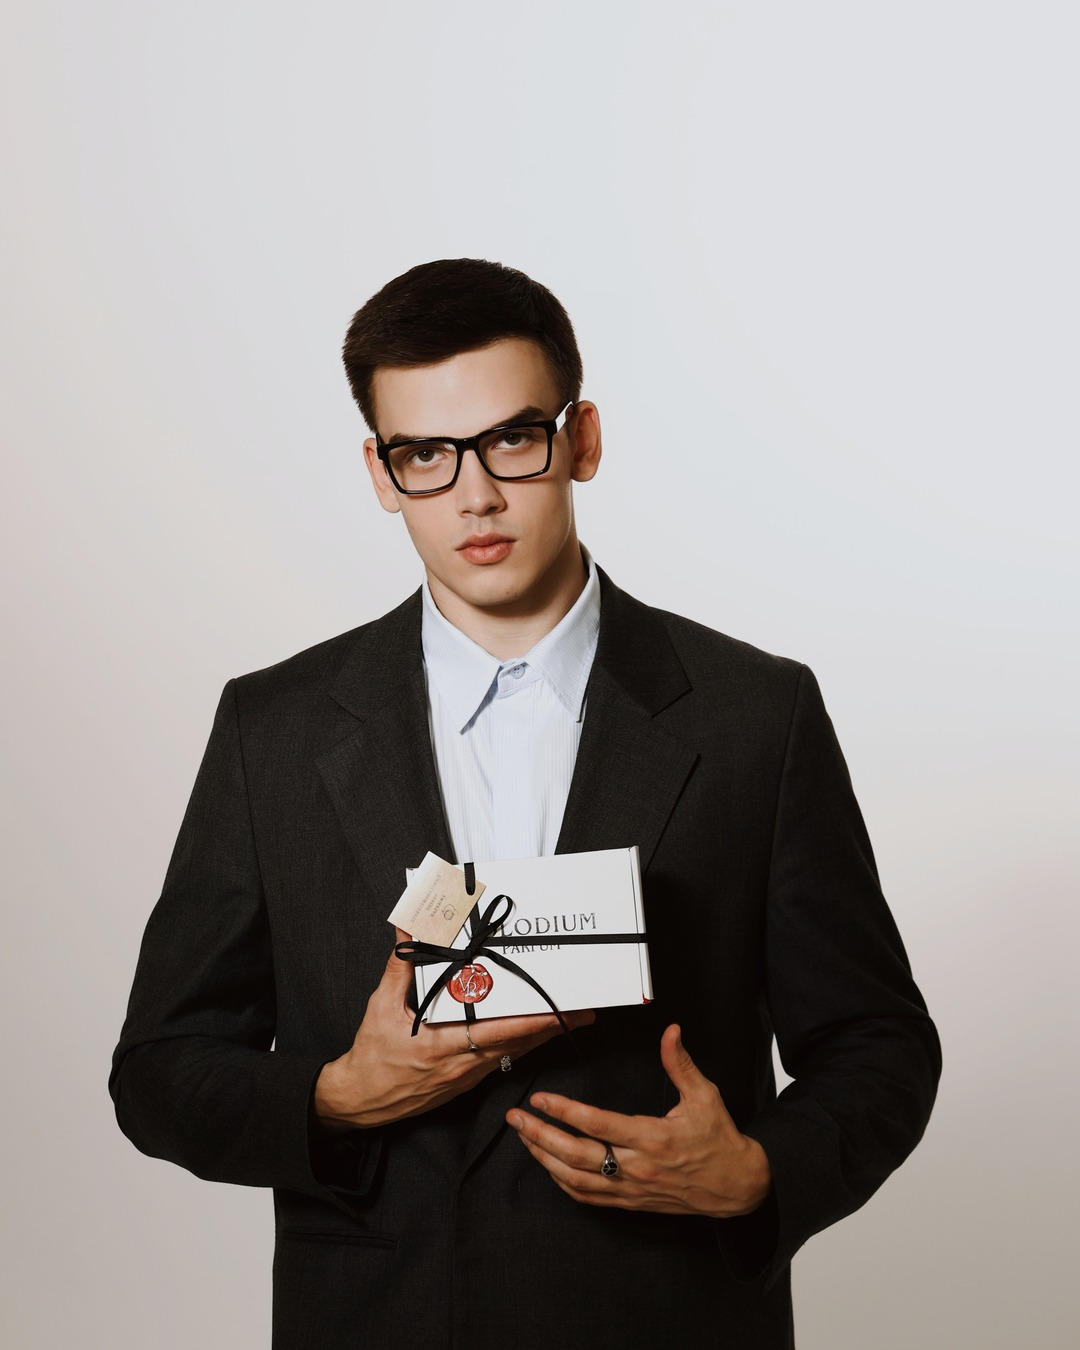
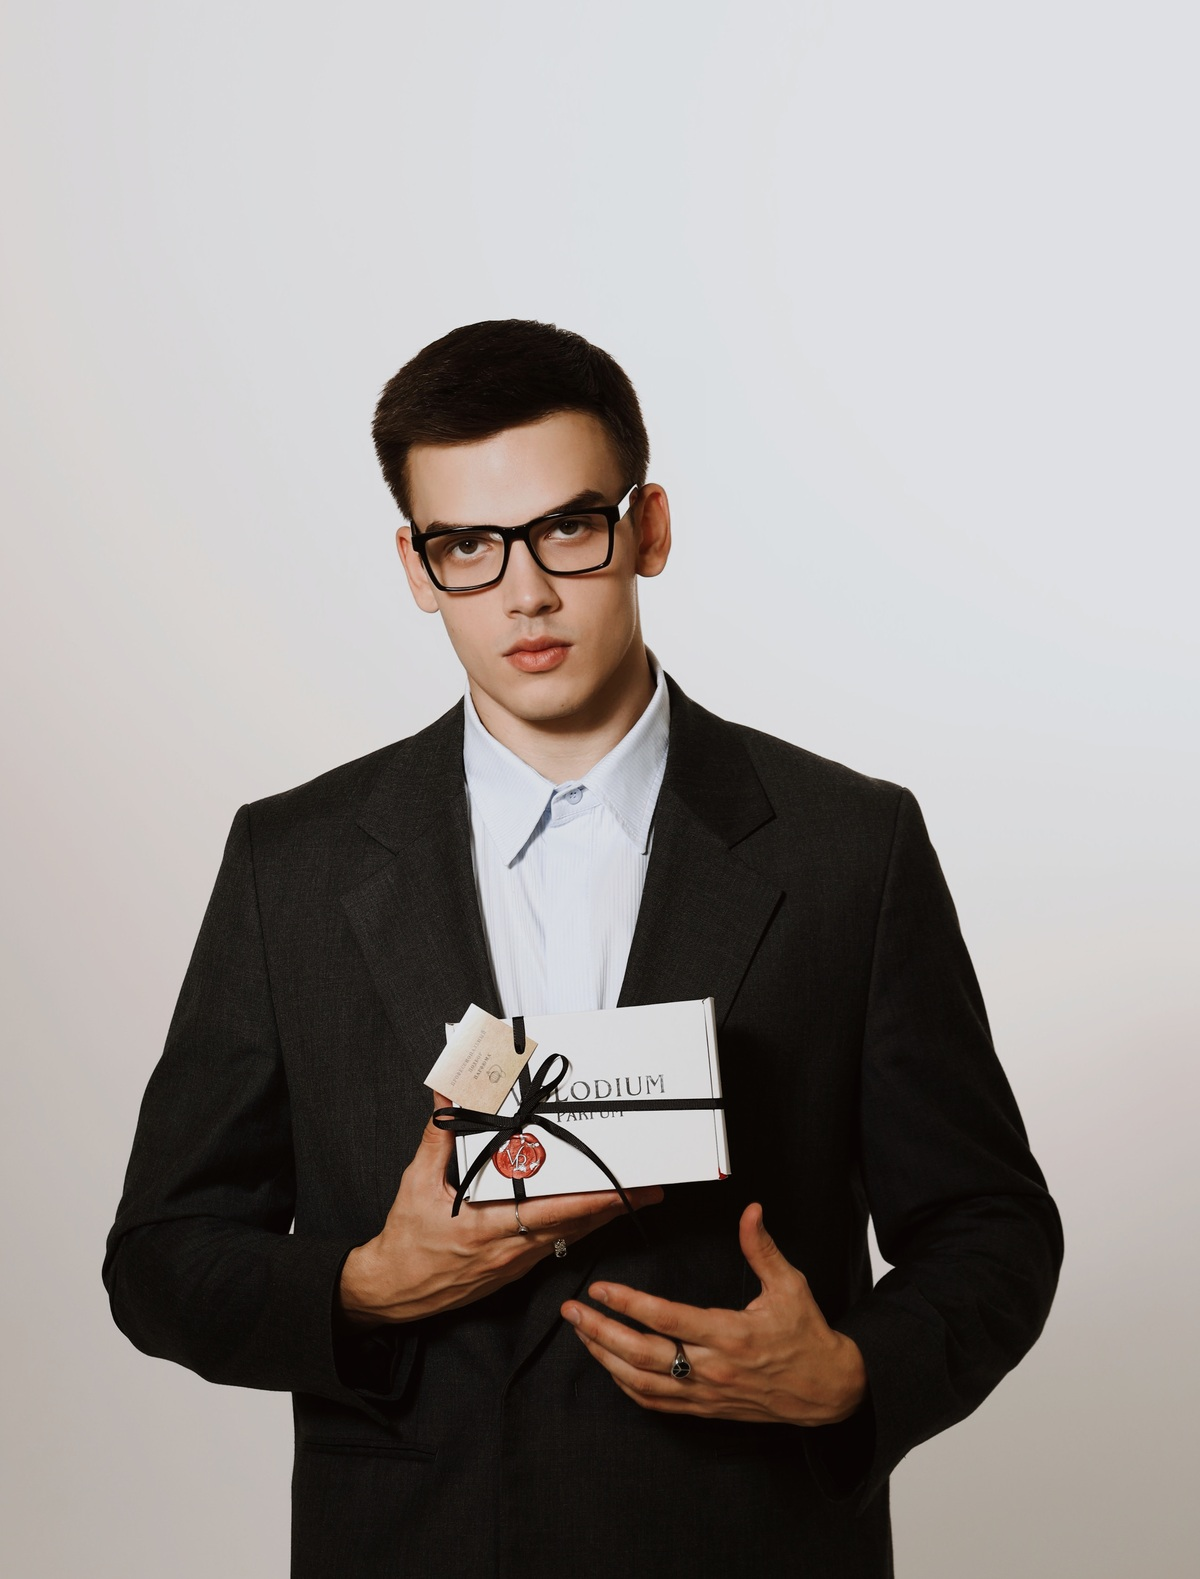
ап

diff --git a/index.html b/index.html
@@ -47,7 +47,7 @@
 
   <script>try{var p=new URLSearchParams(window.location.search);if(!p.has('intro')&&!p.has('replay')&&(sessionStorage.getItem('vp_intro_seen')==='1'||(window.location.hash&&window.location.hash!=='#intro'))){document.documentElement.classList.remove('intro-active');}}catch(e){}</script>
   <!-- Main Stylesheet -->
-  <link rel="stylesheet" href="assets/css/style.css?v=20261122_clean_editorial_v1">
+  <link rel="stylesheet" href="assets/css/style.css?v=20261122_clean_editorial_v2">
 </head>
 <body class="intro-active">
 
@@ -482,12 +482,7 @@
           <!-- Mobile Portrait Card (Visible only on mobile/tablet where full-bleed desktop background scales down) -->
           <div class="lcc-mobile-portrait-stage">
             <div class="lcc-mobile-frame">
-              <img src="assets/images/custom_scent_vladimir_mobile.jpg" alt="Владимир Вацик с фирменным боксом Volodium" class="lcc-mobile-img" loading="lazy" width="1080" height="1350">
-              <div class="lcc-founder-pill-subtle">
-                <span class="lfps-name">Владимир Вацик</span>
-                <span class="lfps-dot">•</span>
-                <span class="lfps-role">Основатель Volodium</span>
-              </div>
+              <img src="assets/images/custom_scent_vladimir_mobile.jpg" alt="Владимир Вацик с фирменным боксом Volodium" class="lcc-mobile-img" loading="lazy" width="1200" height="1579">
             </div>
           </div>
         </div>
@@ -497,7 +492,7 @@
           <!-- 1. Оригинальность -->
           <div class="hgb-item">
             <div class="hgb-icon-cell" aria-hidden="true">
-              <svg width="22" height="22" viewBox="0 0 24 24" fill="none" stroke="currentColor" stroke-width="1.8" stroke-linecap="round" stroke-linejoin="round">
+              <svg width="20" height="20" viewBox="0 0 24 24" fill="none" stroke="currentColor" stroke-width="1.8" stroke-linecap="round" stroke-linejoin="round">
                 <path d="M12 22s8-4 8-10V5l-8-3-8 3v7c0 6 8 10 8 10z"/>
                 <polyline points="9 12 11 14 15 10"/>
               </svg>
@@ -513,7 +508,7 @@
           <!-- 2. Сроки сборки -->
           <div class="hgb-item">
             <div class="hgb-icon-cell" aria-hidden="true">
-              <svg width="22" height="22" viewBox="0 0 24 24" fill="none" stroke="currentColor" stroke-width="1.8" stroke-linecap="round" stroke-linejoin="round">
+              <svg width="20" height="20" viewBox="0 0 24 24" fill="none" stroke="currentColor" stroke-width="1.8" stroke-linecap="round" stroke-linejoin="round">
                 <rect x="2" y="7" width="20" height="14" rx="2" ry="2"/>
                 <path d="M16 21V5a2 2 0 0 0-2-2h-4a2 2 0 0 0-2 2v16"/>
               </svg>
@@ -529,7 +524,7 @@
           <!-- 3. Личный подход -->
           <div class="hgb-item">
             <div class="hgb-icon-cell" aria-hidden="true">
-              <svg width="22" height="22" viewBox="0 0 24 24" fill="none" stroke="currentColor" stroke-width="1.8" stroke-linecap="round" stroke-linejoin="round">
+              <svg width="20" height="20" viewBox="0 0 24 24" fill="none" stroke="currentColor" stroke-width="1.8" stroke-linecap="round" stroke-linejoin="round">
                 <path d="M20 21v-2a4 4 0 0 0-4-4H8a4 4 0 0 0-4 4v2"/>
                 <circle cx="12" cy="7" r="4"/>
               </svg>
@@ -539,66 +534,6 @@
               <span class="hgb-desc">Подбор с помощью эксперта</span>
             </div>
           </div>
-        </div>
-      </div>
-    </div>
-  </section>
-
-  <!-- About Section: Vladimir Vatsik Boutique Editorial (Mockup Match) -->
-  <section class="about-editorial-section" id="about" aria-label="О бренде Volodium">
-    <div class="container about-editorial-container">
-      <div class="about-editorial-grid">
-        <!-- Left Column: Vladimir in Orto Parisi Boutique with Blotters -->
-        <div class="about-media-col">
-          <div class="about-media-frame">
-            <img src="assets/img/editorial/vladimir_orto_parisi.jpg" alt="Владимир Вацик — парфюмерный эксперт Volodium" class="about-media-img" loading="lazy" width="1941" height="2560">
-          </div>
-        </div>
-
-        <!-- Right Column: Editorial Narrative -->
-        <div class="about-content-col">
-          <span class="about-eyebrow">О НАС</span>
-          <h2 class="about-title-serif">Парфюмерия —<br>это больше, чем аромат.</h2>
-          <p class="about-lead-desc">
-            Мы внимательно относимся к каждому запросу, помогаем разобраться в композициях и найти аромат, который подходит именно вам.
-          </p>
-          <div class="about-action-wrap">
-            <a href="https://t.me/vatsiik" target="_blank" rel="noopener noreferrer" class="about-btn-burgundy">
-              <span>Познакомиться ближе</span>
-              <span class="about-btn-arrow" aria-hidden="true">↗</span>
-            </a>
-          </div>
-        </div>
-      </div>
-    </div>
-  </section>
-
-  <!-- Concierge Bottom Accent Banner (Mockup Match) -->
-  <section class="concierge-banner-section" aria-label="Консультация по подбору">
-    <div class="container">
-      <div class="concierge-wine-banner">
-        <div class="cwb-content">
-          <h3 class="cwb-title">Ваш аромат<br>ещё не найден?</h3>
-          <p class="cwb-desc">
-            Расскажите нам, какой аромат ищете. Мы проверим доступность и предложим варианты.
-          </p>
-        </div>
-
-        <div class="cwb-action-wrap">
-          <a href="https://t.me/volodiumparfum?text=%D0%97%D0%B4%D1%80%D0%B0%D0%B2%D1%81%D1%82%D0%B2%D1%83%D0%B9%D1%82%D0%B5!%20%D0%98%D1%89%D1%83%20%D0%B0%D1%80%D0%BE%D0%BC%D0%B0%D1%82..." target="_blank" rel="noopener noreferrer" class="cwb-btn-cream">
-            <span>Подобрать мой аромат</span>
-            <span class="cwb-btn-arrow" aria-hidden="true">↗</span>
-          </a>
-          <span class="cwb-subtext">
-            <svg class="cwb-plane-icon" width="14" height="14" viewBox="0 0 24 24" fill="currentColor" aria-hidden="true">
-              <path d="M2.01 21L23 12 2.01 3 2 10l15 2-15 2z"/>
-            </svg>
-            Консультация в Telegram
-          </span>
-        </div>
-
-        <div class="cwb-visual-stage" aria-hidden="true">
-          <img src="assets/images/banner_bottle_stone.jpg" alt="" class="cwb-bottle-img" loading="lazy" width="172" height="236">
         </div>
       </div>
     </div>

diff --git a/assets/css/style.css b/assets/css/style.css
@@ -4523,14 +4523,14 @@ body.hero-cinematic-active .menu-toggle-btn .burger-line {
   display: grid;
   grid-template-columns: 1fr auto 1fr auto 1fr;
   align-items: center;
-  background: #EAE1D5;
+  background: #FFFFFF;
   border-radius: 20px;
-  padding: 1.4rem 2.25rem;
+  padding: 1.35rem 2.5rem;
   margin-top: 3.5rem;
   position: relative;
   z-index: 4;
-  border: 1px solid rgba(255, 255, 255, 0.75);
-  box-shadow: 0 10px 30px rgba(35, 25, 20, 0.05);
+  border: 1px solid rgba(0, 0, 0, 0.06);
+  box-shadow: 0 16px 40px -10px rgba(35, 25, 20, 0.06);
 }
 
 .hgb-item {
@@ -4543,9 +4543,10 @@ body.hero-cinematic-active .menu-toggle-btn .burger-line {
 .hgb-icon-cell {
   width: 44px;
   height: 44px;
-  border-radius: 50%;
-  background: rgba(92, 21, 28, 0.08);
+  border-radius: 12px;
+  background: #F7F3EE;
   color: #5C151C;
+  border: 1px solid rgba(92, 21, 28, 0.08);
   display: flex;
   align-items: center;
   justify-content: center;
@@ -4569,14 +4570,14 @@ body.hero-cinematic-active .menu-toggle-btn .burger-line {
 .hgb-desc {
   font-family: 'Inter Tight', sans-serif;
   font-size: 0.82rem;
-  color: #635A54;
+  color: #6E665E;
   line-height: 1.35;
 }
 
 .hgb-divider {
   width: 1px;
   height: 42px;
-  background: rgba(0, 0, 0, 0.1);
+  background: rgba(0, 0, 0, 0.08);
 }
 
 /* ==========================================================================
@@ -4808,17 +4809,17 @@ body.hero-cinematic-active .menu-toggle-btn .burger-line {
 }
 
 /* ==========================================================================
-   Responsive Media Queries for Mockup Match & Clean Editorial Split
+   Responsive Media Queries for Clean Editorial Split
    ========================================================================== */
 @media (max-width: 991px) {
   .luxury-concierge-card.is-fullbleed {
-    padding: 3rem 0 2rem;
+    padding: 2rem 0 1.5rem;
     background-image: none !important;
     background-color: #FAF7F2 !important;
   }
   .lcc-main-body {
     grid-template-columns: 1fr;
-    gap: 2rem;
+    gap: 1.25rem;
   }
   .lcc-content-wrap {
     max-width: 100%;
@@ -4831,86 +4832,64 @@ body.hero-cinematic-active .menu-toggle-btn .burger-line {
     box-shadow: none;
   }
   .lcc-title-editorial {
-    font-size: clamp(2.2rem, 7.5vw, 2.85rem);
-    line-height: 1.08;
-    margin-bottom: 0.85rem;
+    font-size: clamp(2rem, 7vw, 2.5rem);
+    line-height: 1.05;
+    margin-bottom: 0.45rem;
   }
   .lcc-description-editorial {
-    font-size: 1.02rem;
-    line-height: 1.5;
+    font-size: 0.95rem;
+    line-height: 1.38;
     color: #4A423D;
-    margin-bottom: 1.75rem;
+    margin-bottom: 1.15rem;
     max-width: 100%;
   }
   .lcc-action-wrap {
     width: 100%;
+    gap: 0.45rem;
   }
   .lcc-btn-editorial {
     width: 100%;
     text-align: center;
-    padding: 1rem 1.75rem;
+    padding: 0.85rem 1.6rem;
+    font-size: 0.95rem;
+  }
+  .lcc-subtext-editorial {
+    font-size: 0.78rem;
   }
   .lcc-mobile-portrait-stage {
     display: block;
     width: 100%;
-    margin-top: 0.5rem;
+    margin-top: 0.75rem;
   }
   .lcc-mobile-frame {
     position: relative;
     border-radius: 24px;
     overflow: hidden;
-    box-shadow: 0 16px 40px -12px rgba(35, 25, 20, 0.16),
-                0 0 0 1px rgba(0, 0, 0, 0.06);
+    box-shadow: 0 18px 45px -12px rgba(35, 25, 20, 0.16),
+                0 0 0 1px rgba(0, 0, 0, 0.05);
     background: #EAE3D9;
-    aspect-ratio: 4 / 4.7;
+    aspect-ratio: 4 / 5.25;
   }
   .lcc-mobile-img {
     width: 100%;
     height: 100%;
     object-fit: cover;
-    object-position: center 15%;
+    object-position: center 10%;
     display: block;
   }
-  .lcc-founder-pill-subtle {
-    position: absolute;
-    bottom: 14px;
-    left: 14px;
-    display: inline-flex;
-    align-items: center;
-    gap: 0.45rem;
-    background: rgba(26, 22, 21, 0.82);
-    backdrop-filter: blur(10px);
-    -webkit-backdrop-filter: blur(10px);
-    padding: 0.45rem 0.85rem;
-    border-radius: 999px;
-    border: 1px solid rgba(255, 255, 255, 0.15);
-    color: #FFFFFF;
-    font-size: 0.72rem;
-    font-weight: 500;
-    letter-spacing: 0.02em;
-  }
-  .lfps-name {
-    color: #FFFFFF;
-    font-weight: 600;
-  }
-  .lfps-dot {
-    color: rgba(255, 255, 255, 0.4);
-  }
-  .lfps-role {
-    color: #F7D09A;
-    font-size: 0.68rem;
-  }
 
-  /* Haute guarantees on Mobile: 1 Card with 3 Clean Rows, No Squishing */
+  /* Haute guarantees on Mobile: Elegant White Porcelain Card */
   .haute-guarantees-bar {
     display: flex;
     flex-direction: column;
     gap: 0;
-    padding: 0.5rem 1.25rem;
-    background: #EAE1D5;
+    padding: 0.5rem 1.4rem;
+    background: #FFFFFF;
     border-radius: 20px;
-    margin-top: 1.75rem;
-    margin-bottom: 2rem;
+    margin-top: 1.5rem;
+    margin-bottom: 3.5rem;
+    border: 1px solid rgba(0, 0, 0, 0.06);
+    box-shadow: 0 14px 36px -8px rgba(35, 25, 20, 0.06);
   }
   .hgb-divider {
     display: none;
@@ -4918,59 +4897,34 @@ body.hero-cinematic-active .menu-toggle-btn .burger-line {
   .hgb-item {
     display: flex;
     align-items: center;
-    gap: 1rem;
-    padding: 1.15rem 0;
-    border-bottom: 1px solid rgba(0, 0, 0, 0.08);
+    gap: 1.15rem;
+    padding: 1.05rem 0;
+    border-bottom: 1px solid rgba(0, 0, 0, 0.05);
   }
   .hgb-item:last-child {
     border-bottom: none;
   }
   .hgb-icon-cell {
-    width: 38px;
-    height: 38px;
+    width: 42px;
+    height: 42px;
+    border-radius: 12px;
+    background: #F7F3EE;
+    color: #5C151C;
+    border: 1px solid rgba(92, 21, 28, 0.08);
+    display: flex;
+    align-items: center;
+    justify-content: center;
+    flex-shrink: 0;
   }
   .hgb-title {
     font-size: 0.98rem;
+    font-weight: 600;
+    color: #1A1615;
   }
   .hgb-desc {
-    font-size: 0.78rem;
-  }
-
-  /* About section mobile */
-  .about-editorial-section {
-    padding: 3.5rem 0;
-  }
-  .about-editorial-grid {
-    grid-template-columns: 1fr;
-    gap: 2rem;
-  }
-  .about-media-frame {
-    aspect-ratio: 4 / 3;
-    border-radius: 20px;
-  }
-  .about-title-serif {
-    font-size: clamp(1.85rem, 5.5vw, 2.4rem);
-  }
-  .about-btn-burgundy {
-    width: 100%;
-    text-align: center;
-  }
-
-  /* Concierge banner mobile */
-  .concierge-banner-section {
-    padding: 1.5rem 0 3.5rem;
-  }
-  .concierge-wine-banner {
-    grid-template-columns: 1fr;
-    padding: 2.25rem 1.75rem;
-    gap: 1.75rem;
-  }
-  .cwb-btn-cream {
-    width: 100%;
-    text-align: center;
-  }
-  .cwb-visual-stage {
-    display: none;
+    font-size: 0.8rem;
+    color: #6E665E;
+    line-height: 1.35;
   }
 }
 

diff --git a/.superpowers/sdd/2026-11-22-custom-scent-clean-split/progress.md b/.superpowers/sdd/2026-11-22-custom-scent-clean-split/progress.md
@@ -5,4 +5,5 @@ Task 1: complete (images generated: custom_scent_vladimir_clean_studio.jpg, cust
 Task 2: complete (markup refactored in index.html, HTML tag balance verified)
 Task 3: complete (clean studio split and haute-guarantees-bar styled, CSS braces 2141/2141)
 Task 4: complete (cache buster updated to 20261122_clean_editorial_v1, full verification passed)
+Task 5 (User Feedback Iteration): complete (removed wine banner, removed about Orto Parisi section, removed founder badge from photo, tightened mobile line spacing, enlarged Vladimir's portrait to 1200x1579, redesigned guarantees to crisp porcelain white luxury cards, CSS balanced at 2129/2129, cache buster bumped to 20261122_clean_editorial_v2)
 Final review: self-review (no subagent tool)
